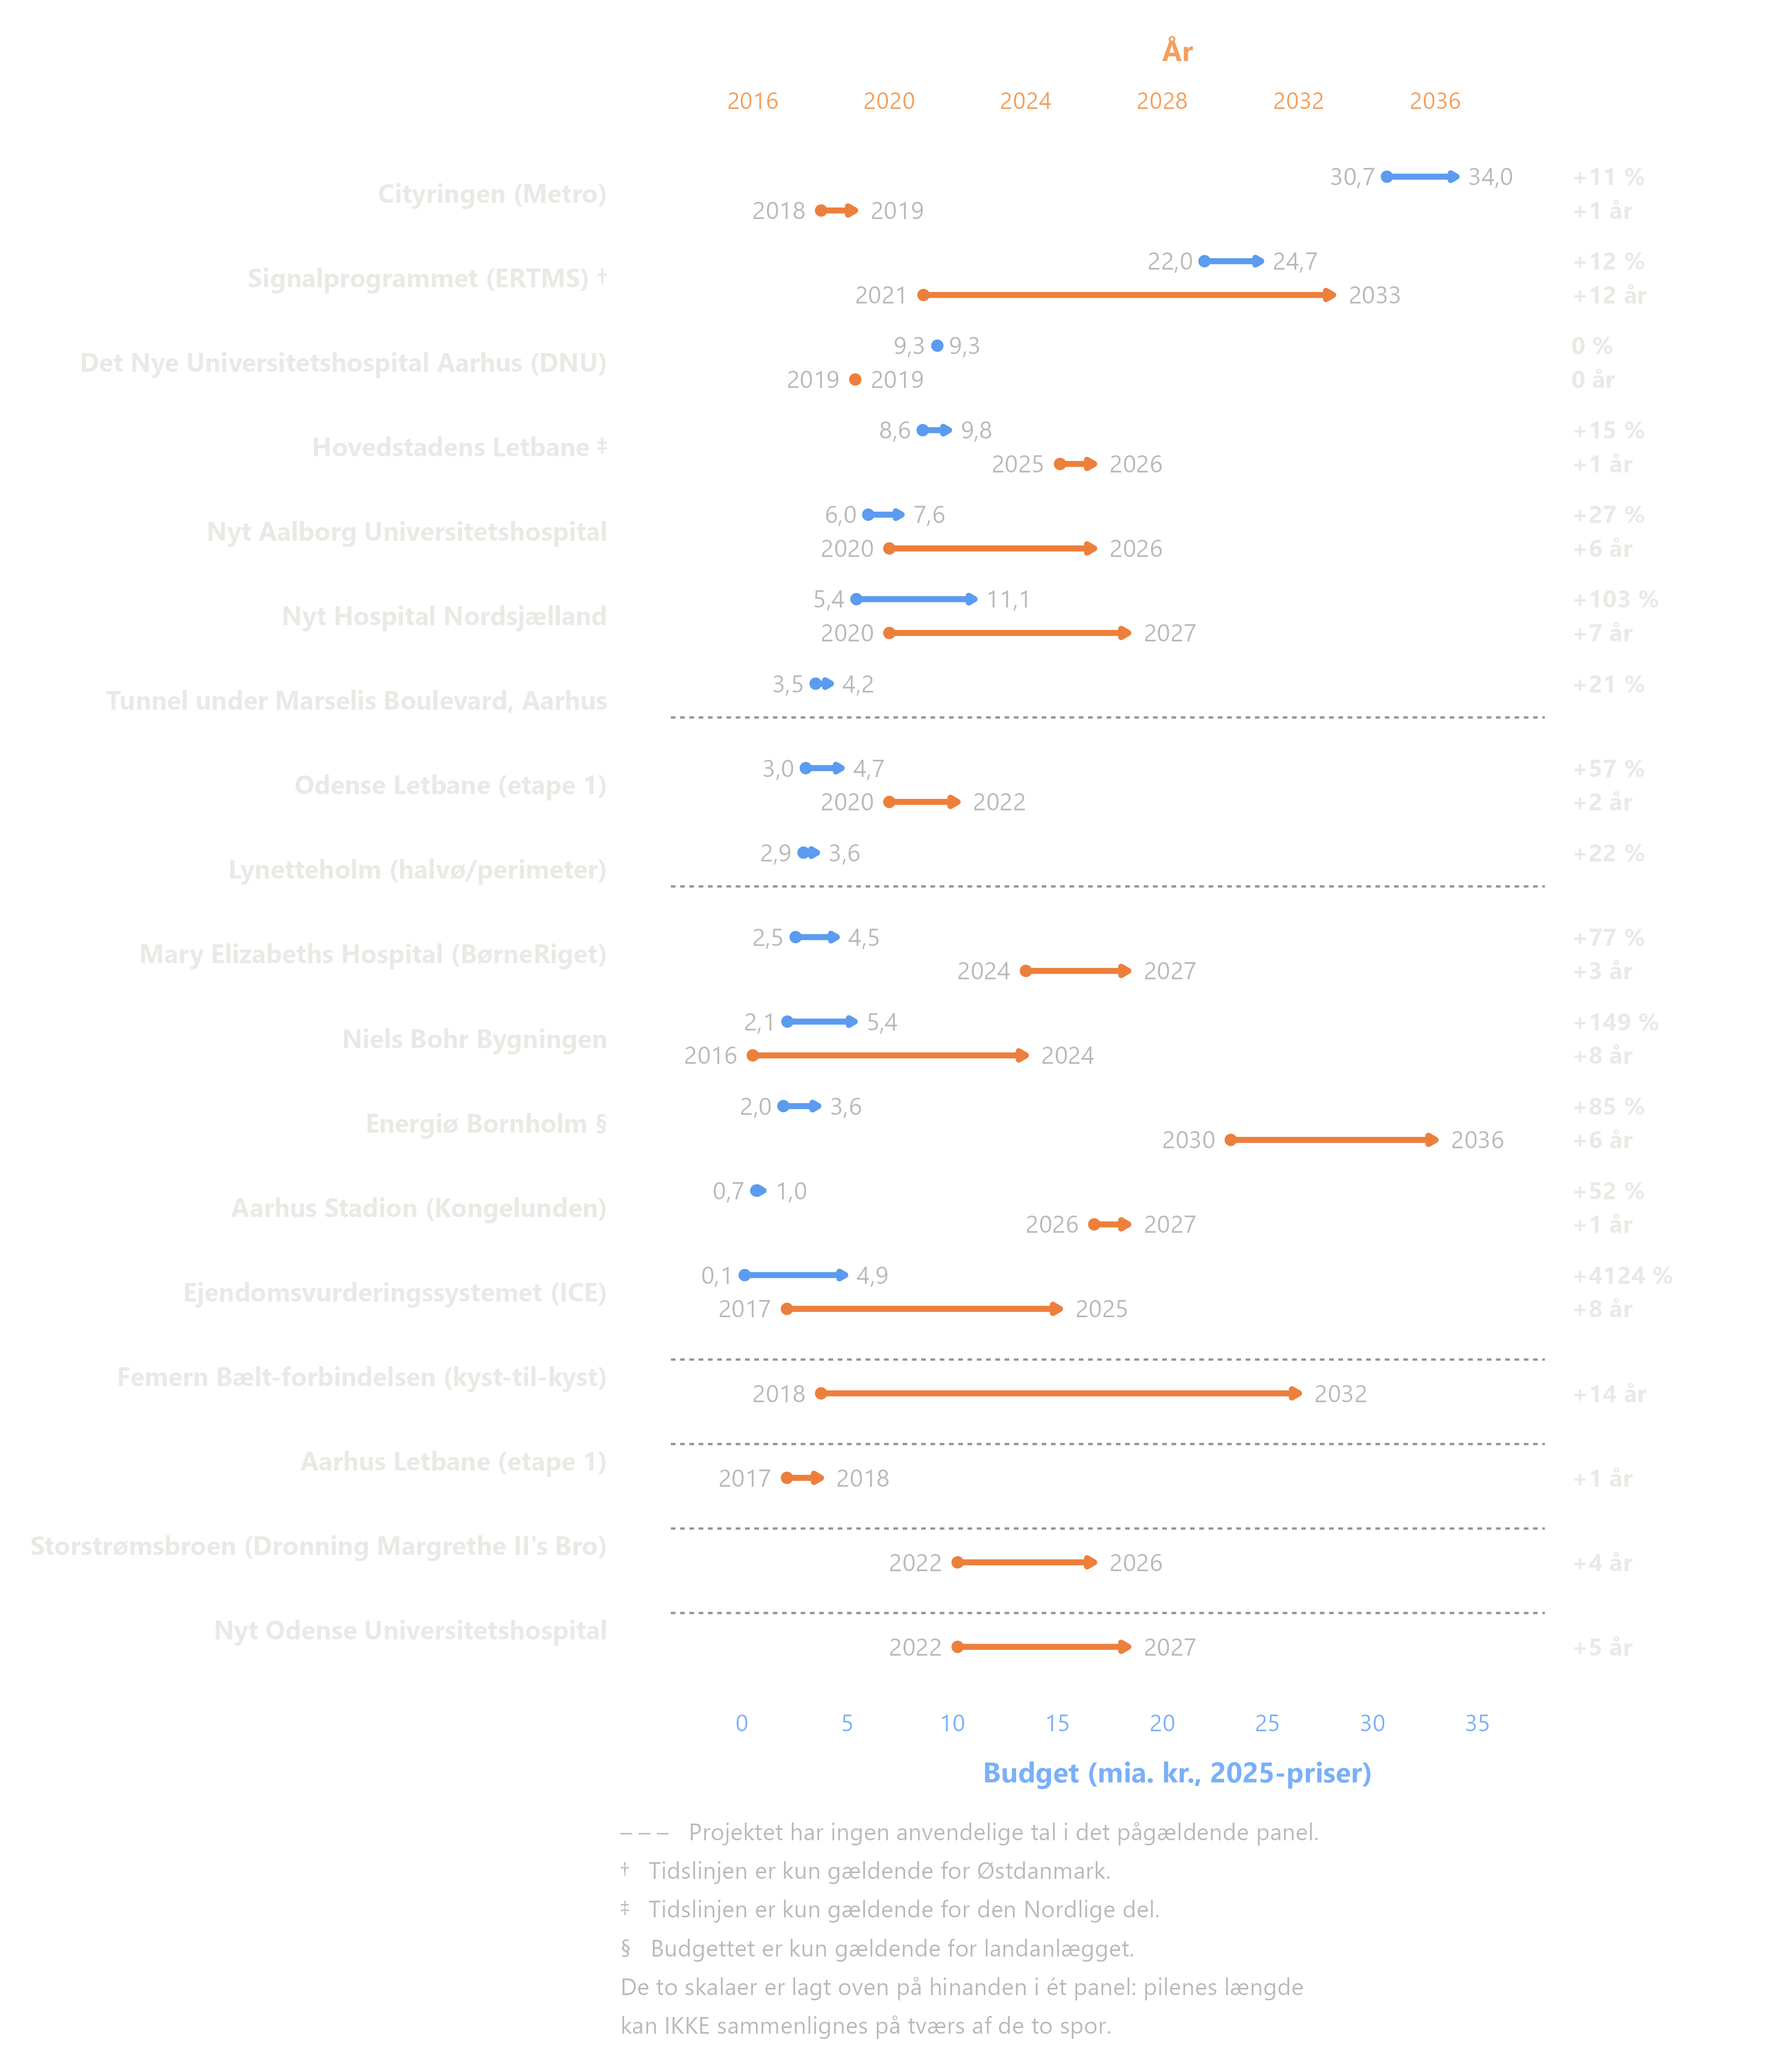
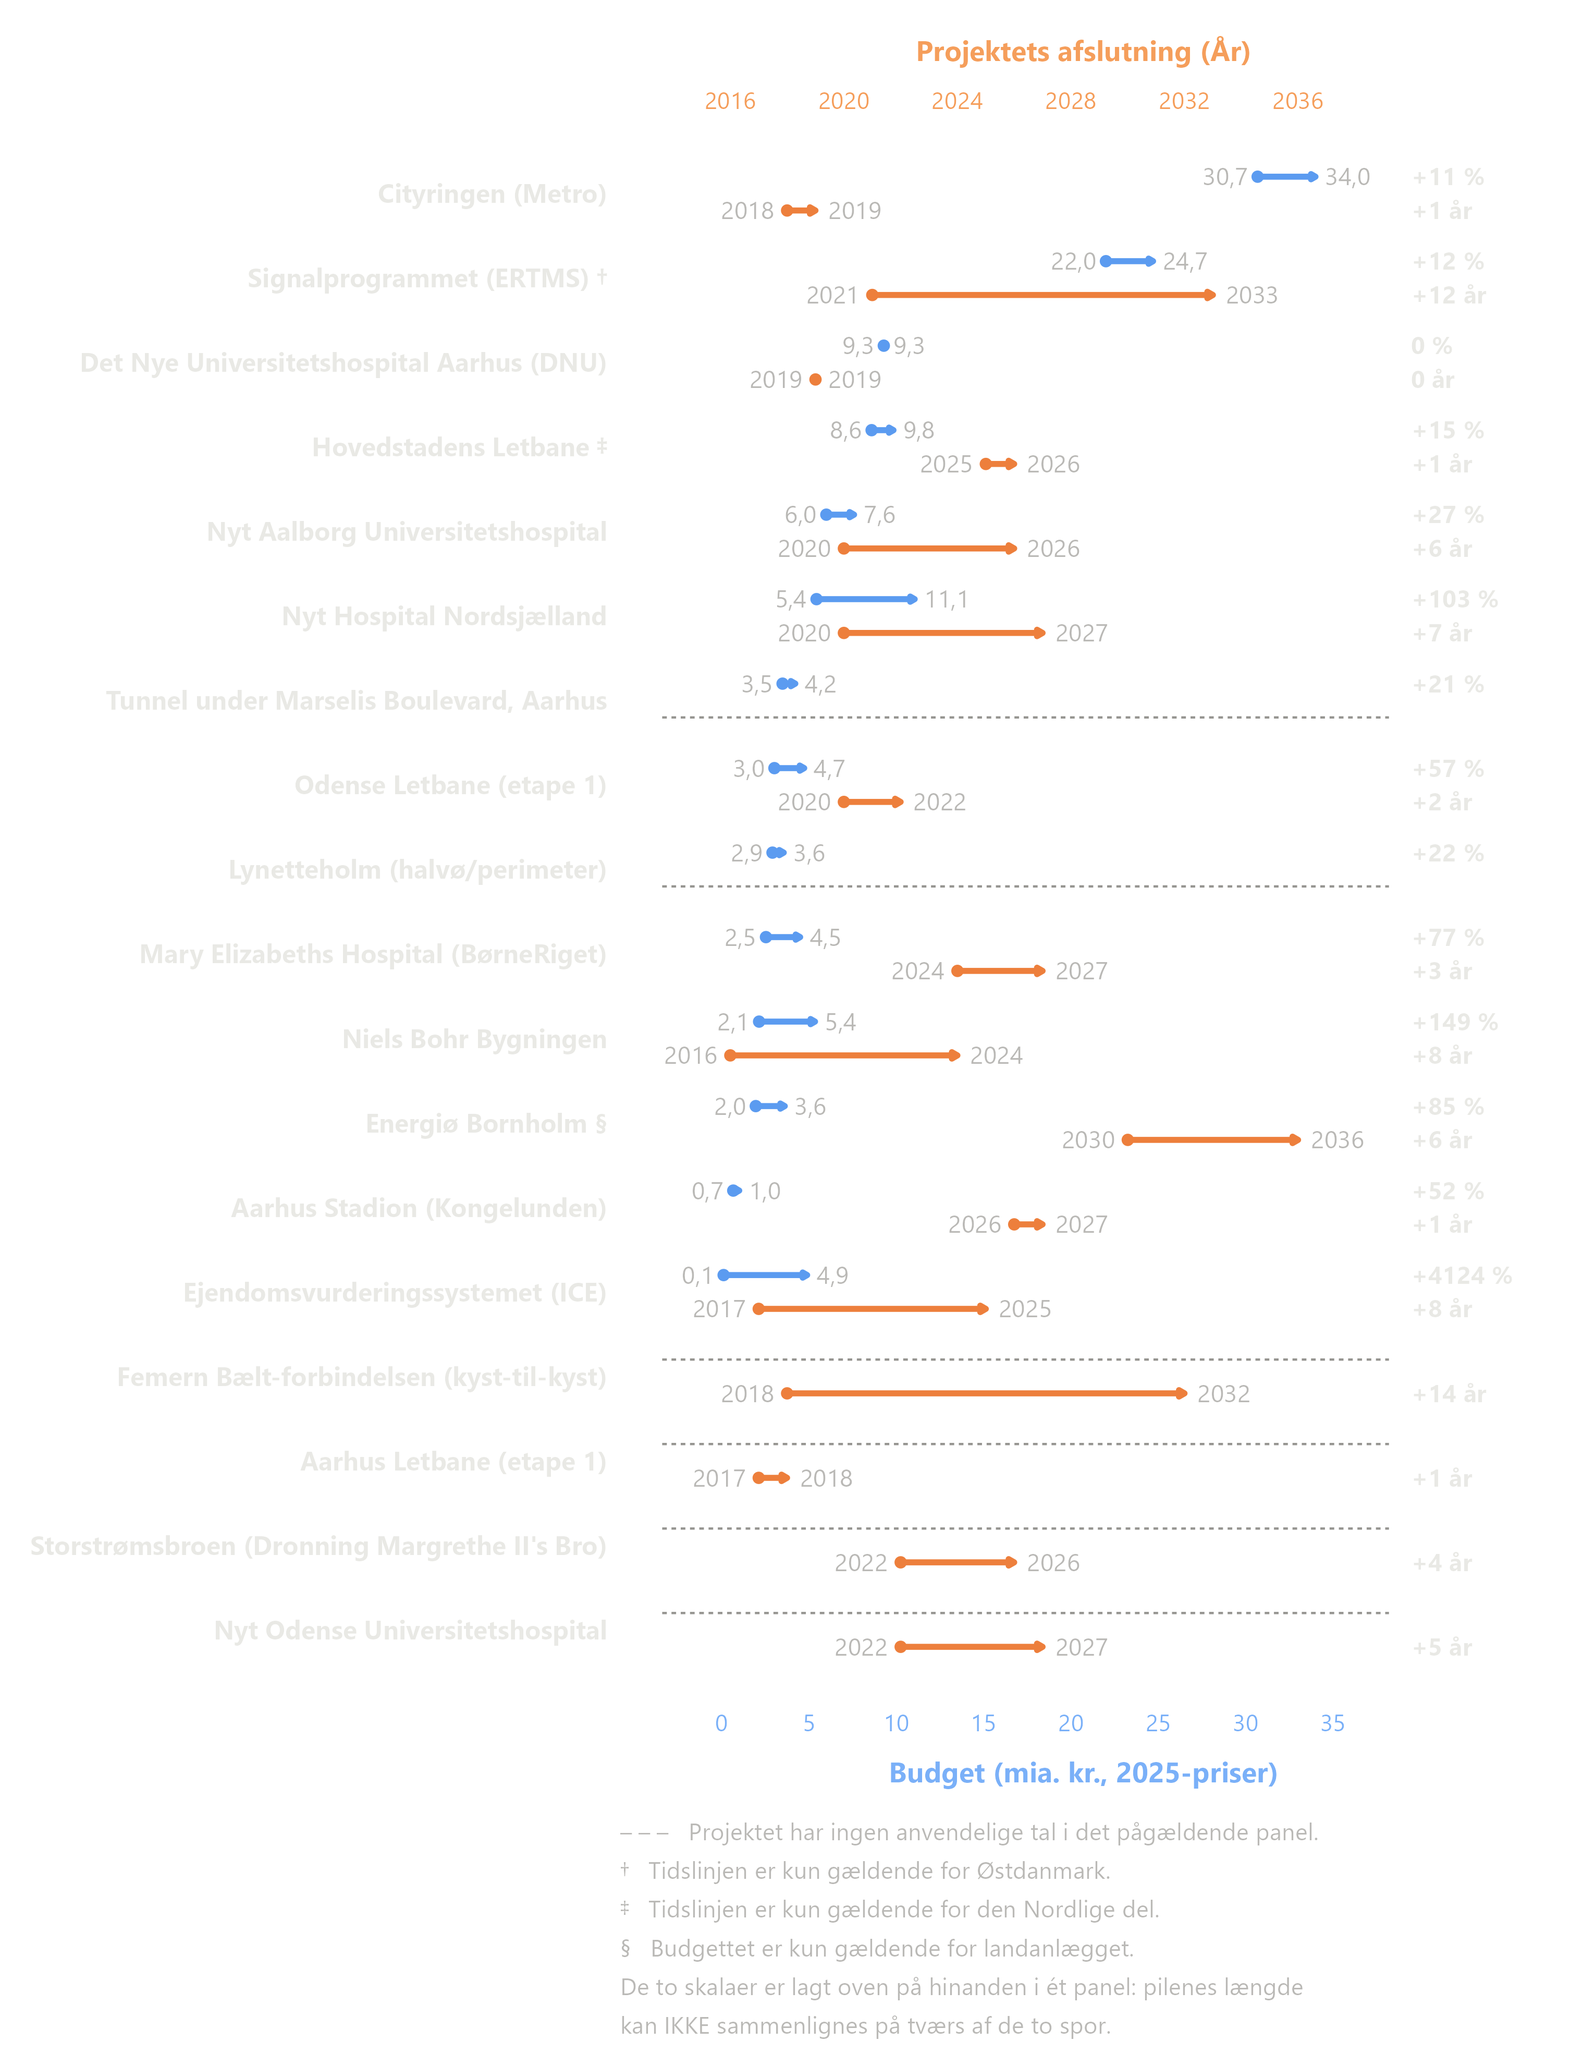
Narrowed figure width in megaprojekter.md to textwidth

diff --git a/_projects/megaprojekter.md b/_projects/megaprojekter.md
@@ -8,25 +8,6 @@ date: 2026-08-26
 lang: da
 ---
 
-<style>
-.fig-bred {margin: 1.5em 0; text-align:center; }
-.fig-bred img { max-width: 100%; height: auto; }
-/* Ved under 280 px vises mobiludgaven */
-@media (max-width: 820px) {
-  .fig-bred img{ max-width: min(100%, 460px); }
-}
-/* Uden sidebar */
-@media (min-width: 821px) and (max-width: 69.99em) {
-  .fig-bred.udbrud { width: min(1200px, calc(100vw - 4em));
-                     margin-left: 50%; transform: translateX(-50%); }
-}
-/* Med sidebar */
-@media (min-width: 70em) {
-  .fig-bred.udbrud { width: min(1200px, calc(100vw - 21em));
-                     margin-left: 50%; transform:translateX(-50%); }
-}
-</style>
-
 > Over budget, over time, under benefit. Over and over again.
 >
 > — Bent Flyvbjerg, Professor Emeritus
@@ -69,7 +50,7 @@ Medianen for den procentvise overskridelse af et projekts budget ligger på 39%,
 
 Hvorvidt de færdige projekter indfrier forventningerne, er svært at fastslå entydigt. For ejendomsvurderingssystemet er der dog ingen tvivl. Adskillige fejl og astronomiske ejendomsvurderinger har gjort det aldeles upopulært blandt borgere og givet grå hår i Vurderingsstyrelsen. Trods forsinkelser og milliardoverskridelser kan projektet altså ikke siges at have indfriet de målsætninger, der blev opstillet. For de andre færdige projekter er det endnu for tidligt at afgøre. Dog er der indikationer på, at passagertallet i Hovedstadens Letbane er langt under det niveau, der var anslået forud for projektets start.
 
-<figure class="fig-bred udbrud">
+<figure style="text-align; center;">
   <picture>
     <source media="(max-width: 820px)" srcset="/assets/projects/jernloven_danske_projekter_mobil.png">
     <img src="/assets/projects/jernloven_danske_projekter.png"
@@ -96,7 +77,7 @@ Den sorte svane er billedet på noget yderst sjældent. Det kan være en pandemi
 
 Det samme princip kan formuleres statistisk. De fleste er bekendt med begrebet *regression to the mean* der fortæller at når du oplever noget usædvanligt, skal du ikke regne med at det bliver ved: det hverdagslige er normalen. Men det omvendte gælder også. Selvom dine dage ligner hinanden, så kan du godt regne med at før eller siden så sker det usædvanlige. Det kalder vi *regression to the tail*. Med tail, menes yderligheden i en sandsynlighedsfordeling. Det er her den sorte svane holder til.
 
-<figure class ="fig-bred">
+<figure style="text-align; center;">
   <picture>
     <source media="(max-width: 820px)" srcset="/assets/projects/think_slow_act_fast_mobil.png">
     <img src="/assets/projects/think_slow_act_fast.png"
